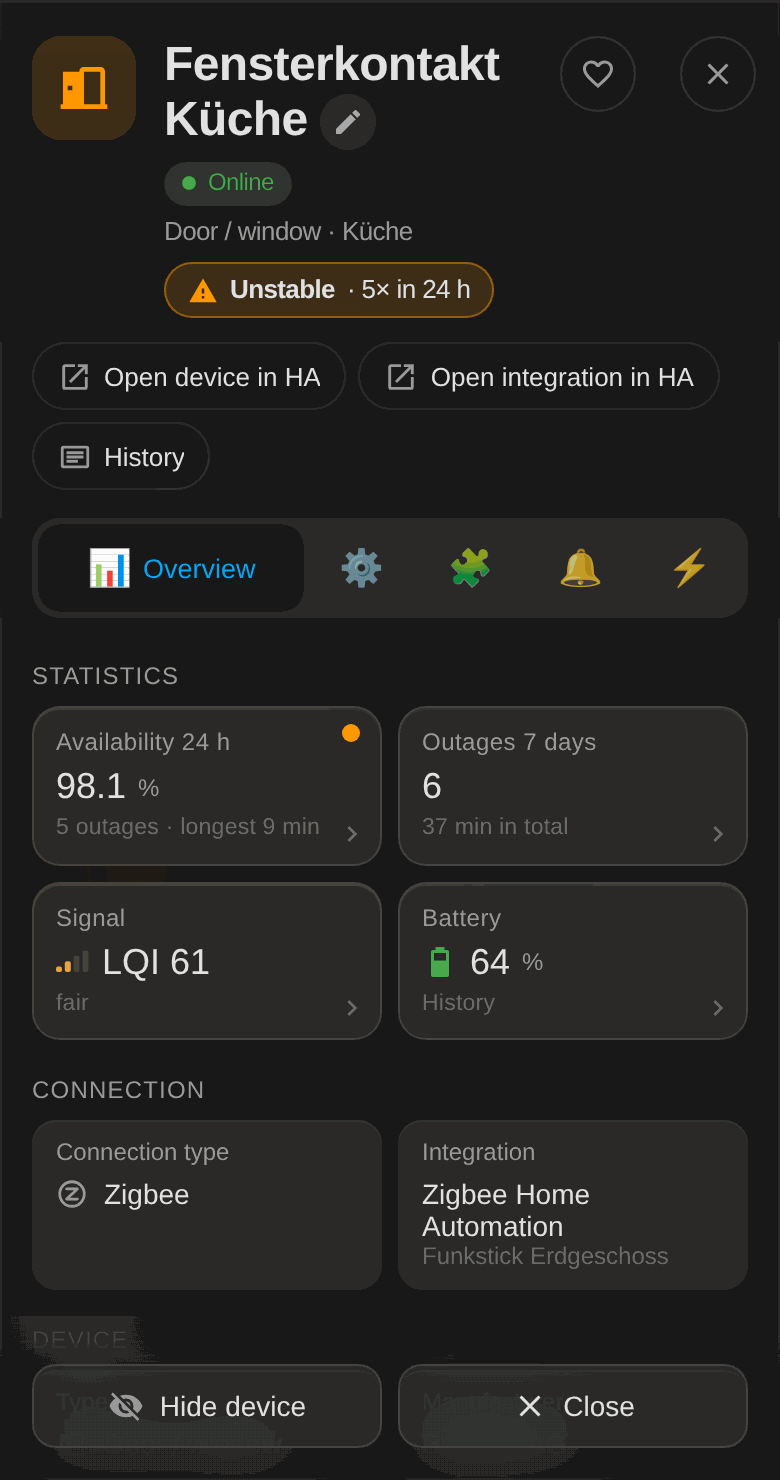
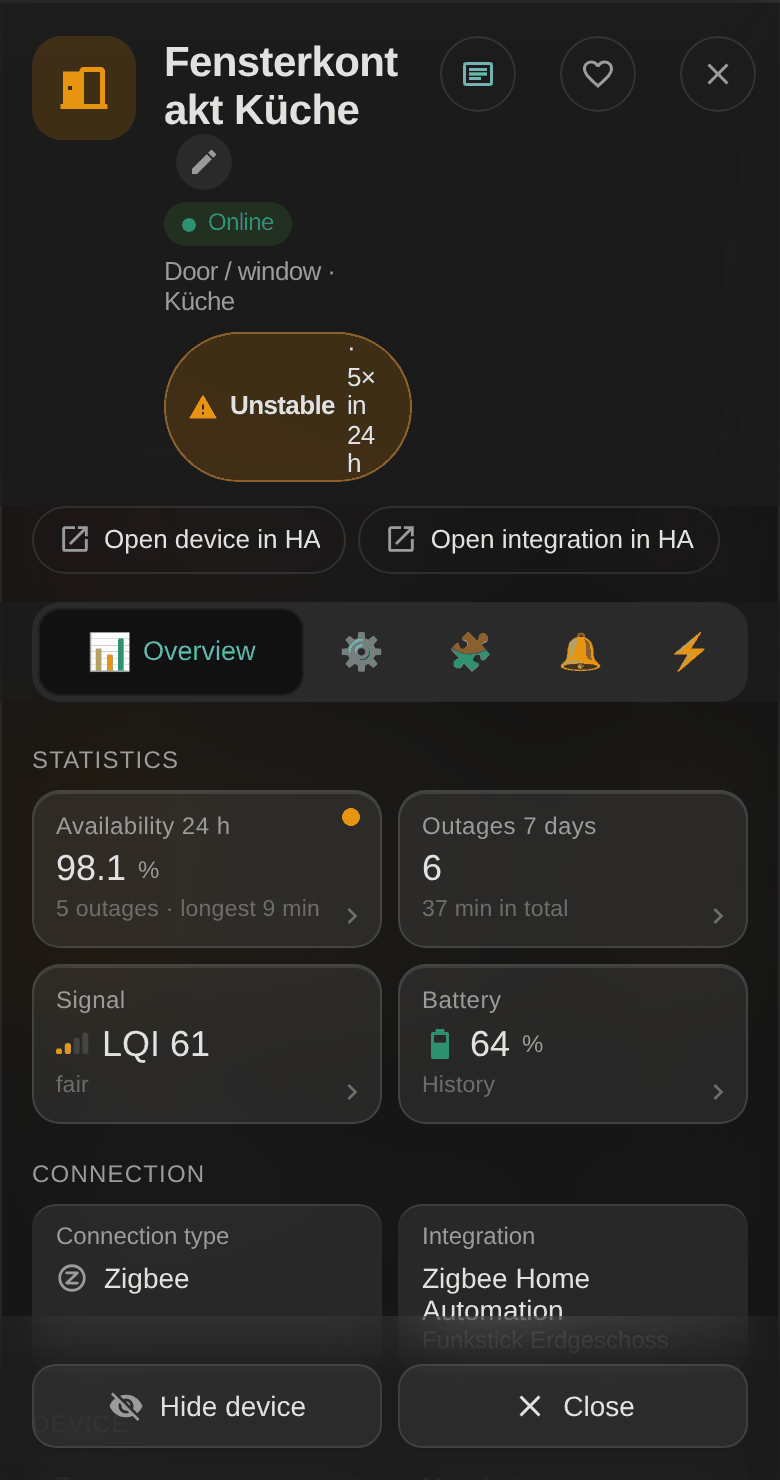
2.121.0: Protokoll-Symbol im Kopf des Geräte-Popups, Kreuz in jedem Protokoll-Fenster, Verläufe am Handy ganz oben
- Geräte-Popup: Protokoll-Symbol oben rechts links vom Herz (wie in den Übersichten), nicht mehr in der Schnellzeile; Name am Handy eine Stufe kleiner (21 px)
- Protokoll-Fenster: zusätzlich ein Kreuz oben rechts, "Zurück" unten bleibt
- Verlaufsfenster (Batterie, Verfügbarkeit, Empfang): am Handy ganz oben am Bildschirmrand
- README-Printscreens des Geräte-Popups neu, CHANGELOG DE/EN, HANDOVER, PANEL_VERSION 303

Claude-Session: https://claude.ai/code/session_01U1q7hu4Br2u4E6fFdEJMgU

diff --git a/custom_components/device_panel/panel/styles.js b/custom_components/device_panel/panel/styles.js
@@ -501,6 +501,7 @@ dialog.status-dlg .dlg-title h2 { margin: 0; }
 .dlg-acts:empty { display: none; }
 .dlg-act { flex: none; display: grid; place-items: center; width: 42px; height: 42px; padding: 0; border: 1px solid var(--dp-divider); border-radius: 50%; background: var(--dp-card); color: var(--dp-primary); cursor: pointer; }
 .dlg-act:hover { background: var(--dp-hover); }
+.dlg-head-log { margin-right: 8px; }
 .dlg-act.run-ok { background: var(--dp-success); border-color: var(--dp-success); color: #fff; }
 .dlg-act.run-err { background: var(--dp-error); border-color: var(--dp-error); color: #fff; }
 .dlg-act:disabled { cursor: progress; }
@@ -1431,6 +1432,8 @@ button.ver-link { border: none; background: none; font: inherit; font-size: 13px
   .toolbar .rtall-btn, .toolbar .apps-btn { margin: 0 3px; } /* Abstand zwischen den Knöpfen 14 px (Wunsch des Nutzers: war zu eng), das Suchfeld wird dafür schmaler */
   dialog.stat-dlg { height: 86%; max-height: 86%; }
   .dlg-head { padding: 18px 12px 12px 16px; }
+  /* Geräte-Popup am Handy: Name eine Stufe kleiner (24 → 21 px), damit neben Protokoll, Herz und Kreuz mehr Platz bleibt (seit 2.121.0) */
+  dialog.device .dlg-title h2 { font-size: 21px; }
   /* Vollbild-Fenster (Einstellungen, Protokoll, Routinen): das Kreuz sitzt auf gleicher Höhe wie der Zahnrad-Knopf der Übersicht (12 px vom oberen Rand) */
   dialog.settings .dlg-head .dlg-close, dialog.log-dlg .dlg-head .dlg-close, dialog.rtall-dlg .dlg-head .dlg-close, dialog.mgall-dlg .dlg-head .dlg-close, dialog.status-dlg .dlg-head .dlg-close,
   dialog.settings .dlg-head .dlg-acts, dialog.rtall-dlg .dlg-head .dlg-acts, dialog.mgall-dlg .dlg-head .dlg-acts { margin-top: -6px; }
@@ -1438,9 +1441,6 @@ button.ver-link { border: none; background: none; font: inherit; font-size: 13px
   /* Handy: beide Knöpfe (Gerät, Integration) auf einer Zeile; bei sehr schmalem Fenster kürzt "…" den Text */
   .qbtn { padding: 0 12px; gap: 6px; min-width: 0; white-space: nowrap; }
   .qbtn .q-t { overflow: hidden; text-overflow: ellipsis; }
-  /* Geräteprotokoll (2.118.0): der dritte Knopf passt am Handy nicht mehr neben die beiden anderen und steht auf einer zweiten Zeile */
-  .dlg-quick { flex-wrap: wrap; }
-  .qbtn-log { flex: none; }
   .dlg-body { padding: 4px 16px 16px; }
   .dlg-actions { padding-left: 16px; padding-right: 16px; }
   .st-tiles { grid-template-columns: repeat(2, minmax(0, 1fr)); }
@@ -1527,6 +1527,9 @@ dialog.device[open] > .dlg-body, dialog.settings[open] > .dlg-body, dialog.stat-
   dialog.stat-dlg { height: 86%; max-height: 86%; }
   /* Einstellungen, Ansicht und Geräte-Popup auf dem Handy als Vollbild (seit 2.24.0, Wunsch des Nutzers) */
   dialog.settings, dialog.device { height: 100%; max-height: 100%; margin: 0; border-radius: 0; clip-path: none; }
+  /* Verlaufsfenster (Batterie, Verfügbarkeit, Empfang) ebenfalls ganz oben am Rand statt als Blatt (seit 2.121.0, Wunsch des Nutzers) */
+  dialog.stat-dlg { height: 100%; max-height: 100%; margin: 0; border-radius: 0; clip-path: none; }
+  dialog.stat-dlg .dlg-head .dlg-close { margin-top: -6px; }
 }
 
 /* Material (seit 2.0.0b1, Wunsch des Nutzers, Variante B aus docs/mockups/apple-design-v1): Geräte-Popup, Einstellungen und Protokoll sind

diff --git a/custom_components/device_panel/panel/device-panel.js b/custom_components/device_panel/panel/device-panel.js
@@ -4828,6 +4828,10 @@ class DevicePanel extends HTMLElement {
     const heart = d
       ? `<button type="button" class="dlg-fav${d.fav ? " on" : ""}" data-dlg="fav" aria-pressed="${Boolean(d.fav)}" title="${escape(favLabel)}" aria-label="${escape(favLabel)}">${mdi(d.fav ? "heart" : "heartOutline", 18)}</button>`
       : "";
+    // Protokoll des Geräts (seit 2.121.0): dasselbe Symbol wie in den Übersichten, links vom Herz; Links aus dem Panel stehen unten, Fenster öffnen oben
+    const logBtn = d && this._viewAdmin()
+      ? `<button type="button" class="dlg-act dlg-head-log" data-proto="all" data-device="${escape(d.id)}" data-name="${escape(d.name)}" title="${escape(this._t("prAct"))}" aria-label="${escape(this._t("prAct"))}">${mdi("log", 18)}</button>`
+      : "";
     // Eigene Schwelle wird gerade getippt: nicht neu aufbauen, sonst ginge die
     // Eingabe beim nächsten Abfragen (alle 10 s) verloren.
     const typing = this.shadowRoot.activeElement;
@@ -4914,8 +4918,8 @@ class DevicePanel extends HTMLElement {
       html = `<div class="dlg-head"><span class="dlg-avatar ${avatar}">${typeIcon(d.type, 28)}</span>
           <div class="dlg-title">${this._nameHtml(d)}
             <div class="dlg-sub">${status}<span>${[this._t(typeKey(d.type)), d.area].filter(Boolean).map(escape).join(" · ")}</span></div>${whyHtml}</div>
-          ${heart}${close}</div>
-        <div class="dlg-quick"><button type="button" class="qbtn" data-dlg="open-device">${mdi("open", 17)}<span class="q-t">${escape(this._t("openDevicePage"))}</span></button>${d.integration?.domain ? `<button type="button" class="qbtn" data-dlg="open-integration" data-domain="${escape(d.integration.domain)}">${mdi("open", 17)}<span class="q-t">${escape(this._t("openIntegPage"))}</span></button>` : ""}${this._viewAdmin() ? `<button type="button" class="qbtn qbtn-log" data-proto="all" data-device="${escape(d.id)}" data-name="${escape(d.name)}" title="${escape(this._t("prAct"))}" aria-label="${escape(this._t("prAct"))}">${mdi("log", 17)}<span class="q-t">${escape(this._t("prAct"))}</span></button>` : ""}</div>
+          ${logBtn}${heart}${close}</div>
+        <div class="dlg-quick"><button type="button" class="qbtn" data-dlg="open-device">${mdi("open", 17)}<span class="q-t">${escape(this._t("openDevicePage"))}</span></button>${d.integration?.domain ? `<button type="button" class="qbtn" data-dlg="open-integration" data-domain="${escape(d.integration.domain)}">${mdi("open", 17)}<span class="q-t">${escape(this._t("openIntegPage"))}</span></button>` : ""}</div>
         <div class="dev-tabs">${tabs}</div>
         <div class="dlg-body" role="tabpanel">${body}
           ${this._hideError ? `<div class="dlg-error">${escape(this._t("hideError"))} ${escape(this._hideError)}</div>` : ""}

diff --git a/custom_components/device_panel/panel/protocol.js b/custom_components/device_panel/panel/protocol.js
@@ -239,7 +239,8 @@ export class ProtocolUi {
     const t = (k, ...a) => this.t(k, ...a);
     const icon = s.kind === "all" ? "log" : s.kind === "magic" ? "bell" : "timer";
     dlg.innerHTML = `<div class="dlg-head"><span class="dlg-avatar">${this.h.mdi(icon, 28)}</span>
-        <div class="dlg-title"><h2>${this.esc(t("prTitle"))}</h2><div class="dlg-sub" data-pr-sub></div></div></div>
+        <div class="dlg-title"><h2>${this.esc(t("prTitle"))}</h2><div class="dlg-sub" data-pr-sub></div></div>
+        <button type="button" class="dlg-close" data-pr="close" title="${this.esc(t("close"))}" aria-label="${this.esc(t("close"))}">${this.h.mdi("close", 18)}</button></div>
       <div class="lg-bar" data-pr-bar>
         <div data-pr-kinds></div>
         <div data-pr-ranges></div>

diff --git a/custom_components/device_panel/const.py b/custom_components/device_panel/const.py
@@ -13,7 +13,7 @@ PANEL_HTML_FILE = "panel.html"
 STATIC_URL_PATH = f"/{DOMAIN}"
 PANEL_STATIC_URL_PATH = f"{STATIC_URL_PATH}/panel"
 # Cache-Buster: bei jeder Änderung unter panel/ von Hand erhöhen.
-PANEL_VERSION = "298"
+PANEL_VERSION = "303"
 PANEL_PAGE_URL = f"{PANEL_STATIC_URL_PATH}/{PANEL_HTML_FILE}?v={PANEL_VERSION}"
 
 # Mitgeliefertes Bild für Push-Meldungen (Companion-App, "icon_url"), wie in

diff --git a/README.de.md b/README.de.md
@@ -82,7 +82,7 @@ Der Batterie-Verlauf reicht bis zu 12 Monate zurück, mit markiertem Batteriewec
 
 ### Protokoll eines Geräts
 
-Ein Fenster mit allem zu einem Gerät: Ausfälle und Rückkehr mit der Dauer, Batterie, Laden, Empfang, Updates, neue Geräte, Push, Meldungen von Magic Push und Läufe von Routinen, nach Tagen. Chips filtern nach Art, ein Tipp auf eine Magic-Push-Zeile zeigt die Meldung, ein Tipp auf eine Routine-Zeile ihren Trace. Die Reiter "Magic Push" und "Routinen" behalten ihre Auswertung mit Kennzahlen und Diagramm. Es öffnet mit "Protokoll" in der Schnellzeile des Geräte-Popups und über den Kopf der Übersichten von Magic Push und Routinen für alle Geräte.
+Ein Fenster mit allem zu einem Gerät: Ausfälle und Rückkehr mit der Dauer, Batterie, Laden, Empfang, Updates, neue Geräte, Push, Meldungen von Magic Push und Läufe von Routinen, nach Tagen. Chips filtern nach Art, ein Tipp auf eine Magic-Push-Zeile zeigt die Meldung, ein Tipp auf eine Routine-Zeile ihren Trace. Die Reiter "Magic Push" und "Routinen" behalten ihre Auswertung mit Kennzahlen und Diagramm. Es öffnet mit "Protokoll" oben rechts im Geräte-Popup und über den Kopf der Übersichten von Magic Push und Routinen für alle Geräte.
 
 | Alles (Liste nach Tagen) | Magic Push (Auswertung) |
 |---|---|
@@ -164,7 +164,7 @@ Eigene Meldungen pro Gerät ohne Automation, im Reiter "Magic Push" des Geräts.
 - **Text:** Titel und Inhalt mit Variablen, die zum Wert passen (Name, Wert, Einheit, Schwelle, Bereich und mehr), mit Vorschau und einem Rückblick auf die letzten 24 Stunden vor dem Speichern
 - **Assistent:** öffnet in einem eigenen Fenster (Vollbild auf dem Handy), fünf Schritte: Bedingungen, wie lange, Versand, Text, Name
 - **Übersicht:** die App "Magic Push" (im Launcher) öffnet ein Fenster mit allen Meldungen aller Geräte, eine Karte pro Gerät, mit Suche und Filter; unten legt "Neue Meldung" eine neue an (zuerst das Gerät wählen, dann wie im Popup des Geräts)
-- **Protokoll:** ein Fenster für alles zu einem Gerät. Es öffnet mit dem Knopf "Protokoll" in der Schnellzeile des Geräte-Popups, über die Karten und Links von Magic Push und Routinen oder über den Kopf der Übersichten von Magic Push und Routinen (für alle Geräte). Drei Reiter: **"Alles"** listet Ereignisse, Ausfälle (mit Dauer), Batterie, Laden, Updates, neue Geräte, Push, Magic Push und Routinen des Geräts (oder aller Geräte) in einer Liste nach Tagen, mit Chips, die nur Arten mit Einträgen zeigen, Suche und einem Tipp auf eine Magic-Push-Zeile für die Meldung, wie gesendet, oder auf eine Routine-Zeile für ihren Trace. **"Magic Push"** und **"Routinen"** behalten ihre Auswertung: jede Meldung oder jeder Lauf mit Datum, Art, Titel und Text, wie gesendet, Wert, Empfänger und was daraus wurde (gesendet, zurückgehalten, fehlgeschlagen). Zeitraum 7 Tage bis 12 Monate oder eigene Daten, Kennzahlen, ein Balkendiagramm (je Tag, bei langen Zeiträumen je Woche; ein Tipp auf einen Balken wählt den Tag), Auswahl, Suche und "Als Text kopieren". Auch der Empfang erscheint: das Panel schreibt einen Eintrag, wenn ein Gerät schwach wird und wenn es wieder in Ordnung ist (Prüfung alle 5 Minuten, ein Wechsel zählt nach zwei Prüfungen hintereinander). Aufbewahrt wird, solange Platz ist: höchstens 5000 Einträge je Meldung und 30 MB für alle zusammen (einstellbar unter Panel › Speicher)
+- **Protokoll:** ein Fenster für alles zu einem Gerät. Es öffnet mit dem Knopf "Protokoll" oben rechts im Geräte-Popup (links vom Herz), über die Karten und Links von Magic Push und Routinen oder über den Kopf der Übersichten von Magic Push und Routinen (für alle Geräte). Drei Reiter: **"Alles"** listet Ereignisse, Ausfälle (mit Dauer), Batterie, Laden, Updates, neue Geräte, Push, Magic Push und Routinen des Geräts (oder aller Geräte) in einer Liste nach Tagen, mit Chips, die nur Arten mit Einträgen zeigen, Suche und einem Tipp auf eine Magic-Push-Zeile für die Meldung, wie gesendet, oder auf eine Routine-Zeile für ihren Trace. **"Magic Push"** und **"Routinen"** behalten ihre Auswertung: jede Meldung oder jeder Lauf mit Datum, Art, Titel und Text, wie gesendet, Wert, Empfänger und was daraus wurde (gesendet, zurückgehalten, fehlgeschlagen). Zeitraum 7 Tage bis 12 Monate oder eigene Daten, Kennzahlen, ein Balkendiagramm (je Tag, bei langen Zeiträumen je Woche; ein Tipp auf einen Balken wählt den Tag), Auswahl, Suche und "Als Text kopieren". Auch der Empfang erscheint: das Panel schreibt einen Eintrag, wenn ein Gerät schwach wird und wenn es wieder in Ordnung ist (Prüfung alle 5 Minuten, ein Wechsel zählt nach zwei Prüfungen hintereinander). Aufbewahrt wird, solange Platz ist: höchstens 5000 Einträge je Meldung und 30 MB für alle zusammen (einstellbar unter Panel › Speicher)
 
 <p align="center"><img src="https://raw.githubusercontent.com/Diegofuego871/ha-device-panel/main/docs/screenshots/de/magic-wizard.png" alt="Magic-Push-Assistent, Schritt 1: Was soll überwacht werden" width="560"></p>
 

diff --git a/README.md b/README.md
@@ -82,7 +82,7 @@ The battery history reaches back up to 12 months, with the battery change marked
 
 ### History of a device
 
-One window with everything about a device: outages and returns with the duration, battery, charging, reception, updates, new devices, push, Magic Push messages and routine runs, by day. Chips filter by kind, a tap on a Magic Push row shows the message and a tap on a routine row its trace. The tabs "Magic Push" and "Routines" keep their evaluation with key figures and chart. It opens with "History" in the quick row of the device pop-up, and from the header of the overviews of Magic Push and routines for all devices.
+One window with everything about a device: outages and returns with the duration, battery, charging, reception, updates, new devices, push, Magic Push messages and routine runs, by day. Chips filter by kind, a tap on a Magic Push row shows the message and a tap on a routine row its trace. The tabs "Magic Push" and "Routines" keep their evaluation with key figures and chart. It opens with "History" at the top right of the device pop-up, and from the header of the overviews of Magic Push and routines for all devices.
 
 | All (list by day) | Magic Push (evaluation) |
 |---|---|
@@ -164,7 +164,7 @@ Your own notifications per device without an automation, in the tab "Magic Push"
 - **Text:** title and content with variables that fit the value (name, value, unit, threshold, area and more), a preview and a look back at the last 24 hours before you save
 - **Assistant:** opens in its own window (full screen on the phone), five steps: conditions, how long, delivery, text, name
 - **Overview:** the app "Magic Push" (in the launcher) opens a window with all messages of all devices, one card per device, with search and filter; "New message" at the bottom adds one (choose the device first, then as in the device pop-up)
-- **History:** one window for everything about a device. Open it with the button "History" in the quick row of the device pop-up, from the cards and links of Magic Push and routines, or from the header of the overviews of Magic Push and routines (for all devices). Three tabs: **"All"** lists events, outages (with duration), battery, charging, updates, new devices, push, Magic Push and routines of the device (or of all devices) in one list by day, with chips that only show kinds that have entries, search and a tap on a Magic Push row for the message as sent or on a routine row for its trace. **"Magic Push"** and **"Routines"** keep their evaluation: every message or run with date, kind, title and text as it was sent, value, recipient and what became of it (sent, held back, failed). Period 7 days to 12 months or your own dates, key figures, a bar chart (per day, per week for long periods; a tap on a bar picks that day), choice, search and "Copy as text". Reception appears too: the panel writes an entry when a device turns weak and when it is fine again (checked every 5 minutes, a change counts after two checks in a row). Kept as long as there is room: at most 5000 entries per message and 30 MB for all together (adjustable under Panel › Storage)
+- **History:** one window for everything about a device. Open it with the button "History" at the top right of the device pop-up (left of the heart), from the cards and links of Magic Push and routines, or from the header of the overviews of Magic Push and routines (for all devices). Three tabs: **"All"** lists events, outages (with duration), battery, charging, updates, new devices, push, Magic Push and routines of the device (or of all devices) in one list by day, with chips that only show kinds that have entries, search and a tap on a Magic Push row for the message as sent or on a routine row for its trace. **"Magic Push"** and **"Routines"** keep their evaluation: every message or run with date, kind, title and text as it was sent, value, recipient and what became of it (sent, held back, failed). Period 7 days to 12 months or your own dates, key figures, a bar chart (per day, per week for long periods; a tap on a bar picks that day), choice, search and "Copy as text". Reception appears too: the panel writes an entry when a device turns weak and when it is fine again (checked every 5 minutes, a change counts after two checks in a row). Kept as long as there is room: at most 5000 entries per message and 30 MB for all together (adjustable under Panel › Storage)
 
 <p align="center"><img src="https://raw.githubusercontent.com/Diegofuego871/ha-device-panel/main/docs/screenshots/en/magic-wizard.png" alt="Magic Push assistant, step 1: what should be monitored" width="560"></p>
 

diff --git a/docs/HANDOVER.md b/docs/HANDOVER.md
@@ -3,10 +3,11 @@
 Einstieg für jede neue Claude-Code-Session. Zuerst diese Datei lesen, dann
 `CLAUDE.md`, `docs/CONCEPT.md`, `docs/LEARNINGS.md`, `docs/DESIGN.md`.
 
-## Stand (2.120.0, Empfang als Ereignis)
+## Stand (2.121.0, Protokoll-Symbol im Kopf; davor 2.120.0 Empfang als Ereignis)
 
 - `SignalLog.watch(devices)` (`signal_history.py`) schreibt `signal_weak`/`signal_ok` ins Panel-Log (Kategorie `signal`, mit `device_id`): alle `WATCH_INTERVAL` = 5 Min. über `async_list_devices` (gleiche Rechnung wie die Liste und die KI: `devices.signal_limit`/`signal_weak`, vorher in `ai_assessment.py`), Wechsel erst nach `WATCH_CONFIRM` = 2 Prüfungen, erster Stand ohne Ereignis, ausgefallene Geräte behalten ihren Stand. Zustand nur im Arbeitsspeicher (nach einem Neustart beginnt jedes Gerät wieder ohne Ereignis). `devicelog.EVENT_CATS` und `FILTERS.all` im Panel kennen `signal`.
 - Test: `test_signal_history.py::test_watch_writes_weak_and_ok_events_after_two_checks`; Suiten `devicelog`, `log` angepasst.
+- Geräte-Popup (2.121.0): das Protokoll-Symbol (`dlg-act dlg-head-log`, `data-proto="all"`) steht im Kopf links vom Herz; die Schnellzeile `.dlg-quick` hat nur die zwei Links "Gerät in HA öffnen"/"Integration in HA öffnen" (Konzept: unten Links aus dem Panel, oben Fenster im Panel). Protokoll-Fenster und Verlaufsfenster (`stat-dlg`) haben am Handy ein Kreuz bzw. Vollbild.
 - README-Printscreens neu (ohne Versionswechsel, in 2.120.0): `tests/panel/readme-shots.mjs` hat neue Schritte `devicelog` (Reiter Alles und Magic Push des Protokoll-Fensters, erfundene Einträge für das Gerät "d" über `window.__devlog`/`__protocol`) und `settings-storage` (erfundene Belegung über `window.__usage`). Ablauf: `SHOTS_OUT=/tmp/shots node readme-shots.mjs`, danach nur die in README.md/README.de.md genannten Dateien auf 256 Farben bringen (PIL `quantize`) und nach `docs/screenshots/{de,en}/` kopieren (Skript siehe Verlauf dieser Sitzung: Muster `docs/screenshots/(de|en)/<name>.png` aus beiden READMEs lesen). Der Schritt `columns` läuft am Handy über `[data-view-open]` (die Zeile "Sortierung & Ansicht"); `columns-mobile.png` steht neben `columns.png` in der README.
 
 ## Stand (2.119.0, Verläufe bis 12 Monate)

diff --git a/CHANGELOG.de.md b/CHANGELOG.de.md
@@ -7,6 +7,17 @@ Alle nennenswerten Änderungen an dieser Integration stehen in dieser Datei.
 Das Format folgt [Keep a Changelog](https://keepachangelog.com/de/1.1.0/),
 die Versionsnummern folgen [Semantic Versioning](https://semver.org/lang/de/).
 
+## [2.121.0] - 2026-10-24
+
+Das Protokoll-Symbol steht im Kopf des Geräte-Popups, jedes Protokoll-Fenster hat ein Kreuz, und die Verläufe nutzen am Handy den ganzen Bildschirm.
+
+### Geändert
+
+- **Verläufe eines Geräts am Handy** (Batterie, Verfügbarkeit, Empfang): das Fenster steht jetzt ganz oben am Bildschirmrand statt als Blatt mit Abstand darüber, so bleibt mehr Platz für die Grafik. Am Desktop ändert sich nichts.
+- **Protokoll-Fenster:** oben rechts in jeder Ansicht des Protokolls (Gerät, Magic Push, Routinen) ein "X"; "Zurück" unten links bleibt, beide schliessen das Fenster.
+- **Geräte-Popup:** der Knopf "Protokoll" steht nicht mehr in der Schnellzeile, sondern oben rechts links vom Herz, mit demselben Symbol wie in den Übersichten von Magic Push und Routinen. Die Schnellzeile behält nur die zwei Links, die aus dem Panel führen ("Gerät in HA öffnen", "Integration in HA öffnen"); alles oben öffnet ein Fenster im Panel. Am Handy ist der Name im Kopf eine Stufe kleiner (21 statt 24 px), damit neben den drei runden Knöpfen mehr Platz bleibt.
+- **README:** die Printscreens des Geräte-Popups sind neu aufgenommen (Symbol im Kopf).
+
 ## [2.120.0] - 2026-10-24
 
 Der Empfang im Protokoll eines Geräts: ein Eintrag, wenn ein Gerät schwach wird und wenn es wieder in Ordnung ist.
@@ -4505,6 +4516,7 @@ Erste Vorabversion.
   GitHub Actions für die Prüfungen von HACS und hassfest sowie die Tests.
 
 [2.6.0]: https://github.com/Diegofuego871/ha-device-panel/releases/tag/v2.6.0
+[2.121.0]: https://github.com/Diegofuego871/ha-device-panel/releases/tag/v2.121.0
 [2.120.0]: https://github.com/Diegofuego871/ha-device-panel/releases/tag/v2.120.0
 [2.119.0]: https://github.com/Diegofuego871/ha-device-panel/releases/tag/v2.119.0
 [2.118.0]: https://github.com/Diegofuego871/ha-device-panel/releases/tag/v2.118.0

diff --git a/CHANGELOG.md b/CHANGELOG.md
@@ -7,6 +7,17 @@ All notable changes to this integration are documented in this file.
 The format is based on [Keep a Changelog](https://keepachangelog.com/en/1.1.0/),
 and this project adheres to [Semantic Versioning](https://semver.org/).
 
+## [2.121.0] - 2026-10-24
+
+The history symbol sits in the header of the device pop-up, a close button in every history window, and the charts use the whole screen on a phone.
+
+### Changed
+
+- **Charts of a device on a phone** (battery, availability, reception): the window now sits at the very top of the screen instead of a sheet with a gap above it, so the chart gets more room. On desktop nothing changes.
+- **History window:** an "X" at the top right in every view of the history (a device, Magic Push, routines); "Back" at the bottom left stays, both close the window.
+- **Device pop-up:** the button "History" moved from the quick row to the top right, to the left of the heart, with the same icon as in the overviews of Magic Push and routines. The quick row keeps only the two links that leave the panel ("Open device in HA", "Open integration in HA"); everything at the top opens a window inside the panel. On a phone the name in the header is one step smaller (21 instead of 24 px), so the three round buttons leave it more room.
+- **README:** the screenshots of the device pop-up were taken again (symbol in the header).
+
 ## [2.120.0] - 2026-10-24
 
 Reception in the history of a device: an entry when a device turns weak and when it is fine again.
@@ -4404,6 +4415,7 @@ First pre-release.
   GitHub Actions for HACS/hassfest validation and tests.
 
 [2.6.0]: https://github.com/Diegofuego871/ha-device-panel/releases/tag/v2.6.0
+[2.121.0]: https://github.com/Diegofuego871/ha-device-panel/releases/tag/v2.121.0
 [2.120.0]: https://github.com/Diegofuego871/ha-device-panel/releases/tag/v2.120.0
 [2.119.0]: https://github.com/Diegofuego871/ha-device-panel/releases/tag/v2.119.0
 [2.118.0]: https://github.com/Diegofuego871/ha-device-panel/releases/tag/v2.118.0
